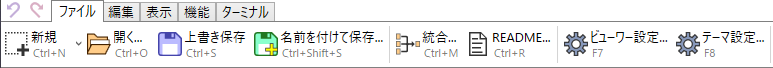
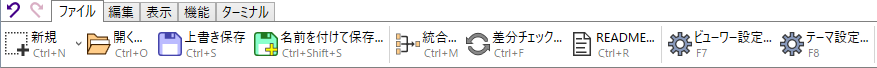
v0.7.31

Changed region(s): [[0.0, 0.4412, 0.9935, 0.8529], [0.0, 0.0, 0.3726, 0.3235], [0.3105, 0.0294, 0.3726, 0.0588]]

diff --git a/docs/bms_diffCheck.html b/docs/bms_diffCheck.html
@@ -1,0 +1,90 @@
+<!DOCTYPE html>
+<html>
+    <head>
+        <meta content="text/html" charset="UTF-8" http-equiv="content-type">
+        <title>BmsMaker3</title>
+        <link rel="shortcut icon" href="favicon.ico">
+        <link rel="stylesheet" type="text/css" href="style.css">
+    </head>
+    <body>
+        <div class="content">
+            <div class="stack">
+                <h1>差分チェック</h1>
+                <p>
+                    <b>選んだファイルを変更前</b>、<b>編集中のデータを変更後</b>とみなして、内容がどれくらい変更されているのかを確認する機能です。
+                </p>
+                <ul>
+                    <li>
+                        複数の難易度差分を作る際に、時間方向のズレや抜け、意図しないノートの追加が発生していないかを確認できます。
+                    </li>
+                    <li>
+                        <span class="script">#RANDOM</span>による分岐の内容も<b>トップレベルに限り</b>変更を調べます。
+                    </li>
+                    <li>
+                        このウィンドウは<b>ノンモーダル</b>です。すなわち、このウィンドウを開いた状態で、他の作業を行うことができます。
+                    </li>
+                </ul>
+            </div>
+            <div class="stack">
+                <h2>説明</h2>
+                <img src="img/bms_diffCheck.png"/>
+                <ul>
+                    <li>
+                        <img class="icon16" src="img/icons/Copy.png"/>を押すと、テキストボックスの内容をクリップボードにコピーします。
+                    </li>
+                    <li>
+                        各行の先頭の文字が、その変更の種類を表します。
+                        <ul>
+                            <li>
+                                <b style="color: #f88;">-で始まる行</b>は、その内容が変更後では削除されていることを表します。
+                            </li>
+                            <li>
+                                <b style="color: #4f4;">+で始まる行</b>は、その内容が変更後で新たに追加されていることを表します。
+                            </li>
+                            <li>
+                                <b style="color: #88f;">@で始まる行</b>は、両方のデータに存在はするが、その内容が変更されていることを表します。
+                            </li>
+                            <li>
+                                それ以外の行はコメントです。フィールドの区切りを表します。
+                            </li>
+                            <li>
+                                <b>音声レーンにおけるレーンの違いは無視されます。</b>
+                                <ul>
+                                    <li>
+                                        例えば変更前では<span class="script">#WAV01</span>のノートが<b>BGMレーン</b>に存在し、変更後では同じ時刻/同じ定義番号のノートが<b>演奏レーン</b>に存在する場合、これらは同一であって<b>変更されていない</b>とみなされ、この一覧には表示されません。
+                                    </li>
+                                    <li>
+                                        逆に、各データで同じ時刻/同じレーンにノートが存在する場合でも、それらの<b>定義番号</b>が異なれば、前者の削除と後者の追加がこの一覧で通知されます。
+                                    </li>
+                                </ul>
+                            </li>
+                            <li>
+                                その他のレーンに関しては、レーンが異なる場合も変更があったとみなされます。
+                                <ul>
+                                    <li>
+                                        例えば変更前では<span class="script">Bga_Base</span>のレーンにノートが存在し、変更後では同じ時刻/同じ定義番号のノートが<span class="script">Bga_Layer</span>に存在する場合、前者の削除と後者の追加がこの一覧で通知されます。
+                                    </li>
+                                </ul>
+                            </li>
+                        </ul>
+                    </li>
+                    <li>
+                        <u>下線付きのリンク</u>はクリックできます。
+                        <ul>
+                            <li>
+                                小節番号(<span class="script">#001</span>など)をクリックすると、その小節が画面に収まるようにスクロールします。
+                            </li>
+                            <li>
+                                分岐枝の名前(<span class="script">#IF 1</span>など)をクリックすると、その分岐へ<a href="bms_flow.html">降下</a>します。
+                            </li>
+                            <li>
+                                分岐内の小節番号をクリックすると、その分岐へ降下しつつ、その小節が画面に収まるようにスクロールします。
+                            </li>
+                        </ul>
+                    </li>
+                </ul>
+            </div>
+        </div>
+        <script type="text/javascript" src="script.js"></script>
+    </body>
+</html>

diff --git a/docs/bms_selection.html b/docs/bms_selection.html
@@ -20,6 +20,9 @@
                     <li>
                         ノートの選択以外に、対象の定義番号を一括で変更することもできます。
                     </li>
+                    <li>
+                        このウィンドウは<b>ノンモーダル</b>です。すなわち、このウィンドウを開いた状態で、他の作業を行うことができます。
+                    </li>
                 </ul>
             </div>
             <div class="stack">
@@ -38,9 +41,6 @@
                 <ul>
                     <li>
                         基本的には<a href="http://ucn.tokonats.net/software/bmse/" target="_blank">BMSE</a>の同様の機能に近いものです。
-                    </li>
-                    <li>
-                        このウィンドウは<b>ノンモーダル</b>です。すなわち、このウィンドウを開いた状態で、他の作業を行うことができます。
                     </li>
                 </ul>
             </div>

diff --git a/docs/history.html b/docs/history.html
@@ -10,6 +10,22 @@
         <div class="content">
             <ul>
                 <li>
+                    <details id="0_7_31">
+                        <summary class="a-like">Version 0.7.31 (2025/09/05)</summary>
+                        <ul>
+                            <li>
+                                機能追加
+                                <ul>
+                                    <li>
+                                        <a href="bms_diffCheck.html">BMSモード/差分チェック</a>を追加しました。
+                                    </li>
+                                </ul>
+                            </li>
+                        </ul>
+                        <br>
+                    </details>
+                </li>
+                <li>
                     <details id="0_7_30">
                         <summary class="a-like">Version 0.7.30 (2025/09/04)</summary>
                         <ul>

diff --git a/docs/bms_flow.html b/docs/bms_flow.html
@@ -89,7 +89,7 @@
                                         降下している枝の左には<img src="img/icons/HeadRight.png" class="icon16">が表示されます。
                                     </li>
                                     <li>
-                                        降下状態で<img src="img/icons/HeadLeft.png" class="icon16">を押すと、階層を1段階<b>上昇</b>します。
+                                        降下状態で<img src="img/icons/HeadLeft.png" class="icon16">か<span class="script">BackSpace</span>を押すと、階層を1段階<b>上昇</b>します。
                                     </li>
                                     <li>
                                         同じ親の別の枝(上の画像でいうと「分岐1」と「分岐2」など)に降下する場合、一度その階層まで<b>上昇</b>し、改めてその分岐に<b>降下</b>します。

diff --git a/docs/bms.html b/docs/bms.html
@@ -106,9 +106,10 @@
                         154, 22, 96, 45, common/file_save.html;
                         250, 22,137, 45, common/file_saveAs.html;
                         392, 22, 70, 45, bms/func_merge.html;
-                        462, 22, 93, 45, bms/func_readme.html;
-                        560, 22,112, 45, bms/preview_setting.html;
-                        672, 22, 96, 45, bms/theme_setting.html;
+                        462, 22,104, 45, bms/func_diffCheck.html;
+                        566, 22, 93, 45, bms/func_readme.html;
+                        664, 22,112, 45, bms/preview_setting.html;
+                        776, 22, 96, 45, bms/theme_setting.html;
                     "></div>
                     <div class="image-map" src="img/window_bms_tab_edit.png" maps="
                           1,  0, 25, 21, common/undo.html;

diff --git a/docs/bms/func_diffCheck.html b/docs/bms/func_diffCheck.html
@@ -1,0 +1,11 @@
+<h3><img src="img/icons/Update_Mono.png" class="icon">差分チェック</h3>
+<span class="script">Ctrl+F</span>
+<ul>
+    <li>
+        BMSファイルを選択して<a href="bms_diffCheck.html">差分チェックウィンドウ</a>を開きます。
+    </li>
+    <li>
+        「ファイルを開く」ダイアログをキャンセルした場合、<br>
+        または差分が検出されなかった場合は、ウィンドウは開きません。
+    </li>
+</ul>

diff --git a/docs/common/menu.html b/docs/common/menu.html
@@ -85,6 +85,9 @@
                                 <a href="bms_merge.html">統合</a>
                             </li>
                             <li>
+                                <a href="bms_diffCheck.html">差分チェック</a>
+                            </li>
+                            <li>
                                 <a href="bms_readme.html">同梱テキスト編集</a>
                             </li>
                             <li>

diff --git a/docs/index.html b/docs/index.html
@@ -11,7 +11,7 @@
             <div class="stack">
                 <a href="https://github.com/Kuroki-Narumi/BmsMaker3-Manual/releases" target="_blank">
                     <img src="img/logo.png" style="max-width: 100%;"/><br>
-                    Version 0.7.30<br>
+                    Version 0.7.31<br>
                 </a>
                 オールインワン型BMS制作補助ツール<br>
             </div>
